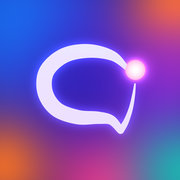
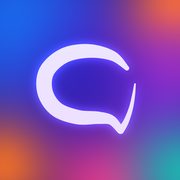
fixed WiFi connections

Changed region(s): [[0.6389, 0.2778, 0.8611, 0.5]]

diff --git a/app/components/HopMark.tsx b/app/components/HopMark.tsx
@@ -1,10 +1,9 @@
-/* HopChat mark: a speech bubble drawn as one hop, with the message landing.
+/* HopChat mark: a speech bubble drawn as one stroke, its tail hopping back up.
    Generated by design/logo/hopmark.py --install; edit the geometry there. */
 export function HopMark(props: React.SVGProps<SVGSVGElement>) {
   return (
     <svg viewBox="200 250 640 540" fill="currentColor" aria-hidden="true" {...props}>
       <path d="M731 378 L729 376 L727 374 L725 371 L723 367 L720 364 L717 359 L714 355 L711 350 L707 346 L703 341 L699 336 L695 330 L691 325 L686 320 L681 315 L676 310 L670 305 L664 301 L658 296 L652 293 L646 289 L639 286 L633 283 L626 280 L619 277 L612 274 L605 272 L598 269 L591 267 L583 265 L576 262 L568 261 L560 259 L552 257 L545 256 L537 254 L529 253 L521 252 L513 252 L505 251 L498 251 L490 250 L482 250 L474 251 L466 251 L458 251 L450 252 L442 253 L434 254 L426 255 L418 256 L409 257 L401 259 L393 261 L385 263 L377 265 L369 268 L362 271 L354 274 L346 277 L339 281 L332 284 L325 288 L318 293 L311 297 L304 302 L298 307 L291 312 L285 317 L278 322 L272 328 L266 333 L261 339 L255 345 L250 351 L245 358 L240 364 L235 371 L231 377 L227 384 L223 392 L220 399 L217 407 L215 414 L213 422 L211 429 L210 437 L208 445 L207 452 L207 460 L206 468 L206 475 L206 483 L207 490 L207 497 L208 505 L209 512 L210 519 L212 526 L213 533 L215 540 L217 547 L220 553 L223 560 L225 567 L229 574 L232 580 L236 587 L239 593 L243 599 L247 605 L252 611 L256 617 L261 623 L266 629 L271 634 L276 639 L282 644 L288 649 L294 654 L300 659 L307 663 L313 667 L320 671 L327 674 L334 678 L341 681 L348 684 L355 686 L362 689 L370 691 L377 693 L384 695 L391 697 L398 699 L405 701 L412 702 L419 704 L425 705 L432 706 L439 707 L447 708 L454 709 L462 709 L469 709 L476 710 L483 709 L490 709 L497 709 L504 708 L510 708 L516 707 L522 707 L528 706 L534 706 L539 706 L544 705 L549 705 L553 705 L557 705 L562 705 L567 705 L571 705 L576 705 L580 705 L584 705 L587 705 L591 705 L594 704 L597 704 L600 704 L603 704 L605 705 L607 705 L610 705 L612 705 L614 706 L616 706 L618 707 L621 707 L622 708 L624 709 L627 710 L629 712 L632 714 L635 717 L638 719 L641 722 L644 725 L647 728 L649 731 L652 734 L655 737 L658 740 L660 743 L662 746 L665 748 L667 751 L669 753 L671 755 L681 761 L692 761 L702 754 L706 743 L703 732 L700 728 L700 726 L698 724 L697 722 L695 719 L693 716 L691 712 L689 709 L686 705 L684 701 L681 697 L678 693 L675 689 L672 685 L669 681 L665 677 L662 673 L658 669 L654 665 L649 662 L645 659 L641 656 L636 654 L632 652 L628 650 L624 648 L619 647 L615 645 L611 644 L607 643 L603 642 L599 641 L594 640 L590 640 L586 639 L582 638 L578 638 L573 637 L569 636 L565 635 L559 635 L553 634 L547 633 L541 633 L535 633 L529 632 L522 632 L516 632 L510 632 L504 632 L498 631 L492 631 L486 631 L481 631 L475 630 L469 630 L464 629 L459 628 L454 627 L450 626 L445 625 L439 623 L433 622 L427 620 L421 619 L415 617 L410 615 L404 614 L398 612 L392 610 L387 608 L382 605 L376 603 L371 601 L367 599 L362 596 L358 594 L354 592 L351 589 L347 587 L344 584 L341 581 L338 578 L335 575 L332 572 L329 568 L326 565 L323 561 L320 557 L317 553 L315 549 L312 545 L310 541 L308 537 L306 533 L304 528 L303 524 L301 520 L300 516 L299 513 L298 509 L297 504 L296 500 L296 496 L295 491 L295 486 L295 482 L295 477 L295 472 L295 467 L295 463 L296 458 L296 454 L297 449 L298 445 L299 441 L300 437 L301 433 L303 430 L304 427 L306 423 L308 420 L311 416 L313 413 L316 409 L320 405 L323 401 L327 397 L331 393 L335 389 L339 385 L344 381 L348 377 L353 374 L358 370 L363 367 L368 364 L373 361 L377 358 L382 356 L387 353 L391 351 L396 349 L402 347 L407 345 L413 343 L419 342 L425 340 L431 339 L438 337 L444 336 L451 335 L457 334 L464 333 L470 332 L477 331 L483 331 L490 330 L496 330 L503 329 L509 329 L515 329 L521 329 L528 329 L534 329 L541 329 L547 329 L554 330 L560 330 L567 331 L573 332 L580 333 L586 334 L593 335 L599 336 L605 337 L611 339 L616 340 L622 342 L627 343 L631 344 L636 346 L640 348 L645 350 L650 352 L655 355 L660 358 L664 361 L669 364 L674 368 L679 371 L683 375 L688 378 L692 381 L696 384 L700 387 L703 390 L706 393 L710 395 L713 397 L718 400 L725 401 L732 397 L735 390 L734 382 Z M703 753 L703 752 L704 750 L705 749 L706 747 L707 745 L708 743 L710 741 L711 738 L713 736 L714 733 L716 730 L718 727 L719 724 L721 721 L723 718 L724 715 L726 711 L727 708 L729 704 L730 701 L732 697 L733 694 L735 690 L736 687 L737 683 L739 679 L740 675 L741 671 L743 667 L744 663 L745 659 L747 654 L748 650 L749 646 L750 642 L751 638 L752 634 L754 629 L755 625 L756 621 L756 617 L757 613 L758 609 L759 605 L760 601 L761 597 L761 592 L762 588 L763 584 L763 580 L764 576 L765 572 L765 568 L766 564 L766 560 L767 556 L767 552 L768 549 L768 545 L768 541 L769 538 L769 534 L770 530 L770 527 L770 523 L770 519 L771 516 L771 512 L771 508 L771 505 L771 501 L772 498 L772 495 L772 492 L772 489 L772 487 L772 484 L772 482 L772 480 L772 479 L772 476 L770 474 L768 474 L765 474 L764 477 L763 479 L763 480 L763 482 L762 485 L762 487 L761 490 L761 493 L760 496 L760 499 L759 502 L758 506 L758 509 L757 513 L756 516 L756 520 L755 523 L754 527 L753 530 L753 534 L752 537 L751 541 L750 544 L750 548 L749 552 L748 556 L747 559 L746 563 L745 567 L744 571 L743 575 L743 579 L742 583 L741 587 L740 591 L739 594 L737 598 L736 602 L735 606 L734 610 L733 613 L732 617 L730 621 L729 625 L728 629 L726 632 L725 636 L723 640 L721 644 L720 648 L718 652 L717 656 L715 659 L713 663 L712 667 L710 670 L708 674 L707 677 L705 680 L704 683 L702 686 L701 689 L699 692 L697 694 L696 697 L694 700 L692 702 L690 705 L688 707 L687 709 L685 712 L683 714 L681 716 L679 718 L678 720 L676 722 L675 724 L673 726 L672 728 L671 729 L669 731 L666 739 L668 750 L675 759 L687 762 L698 758 Z" />
-      <circle cx="770" cy="398" r="56" />
     </svg>
   );
 }
